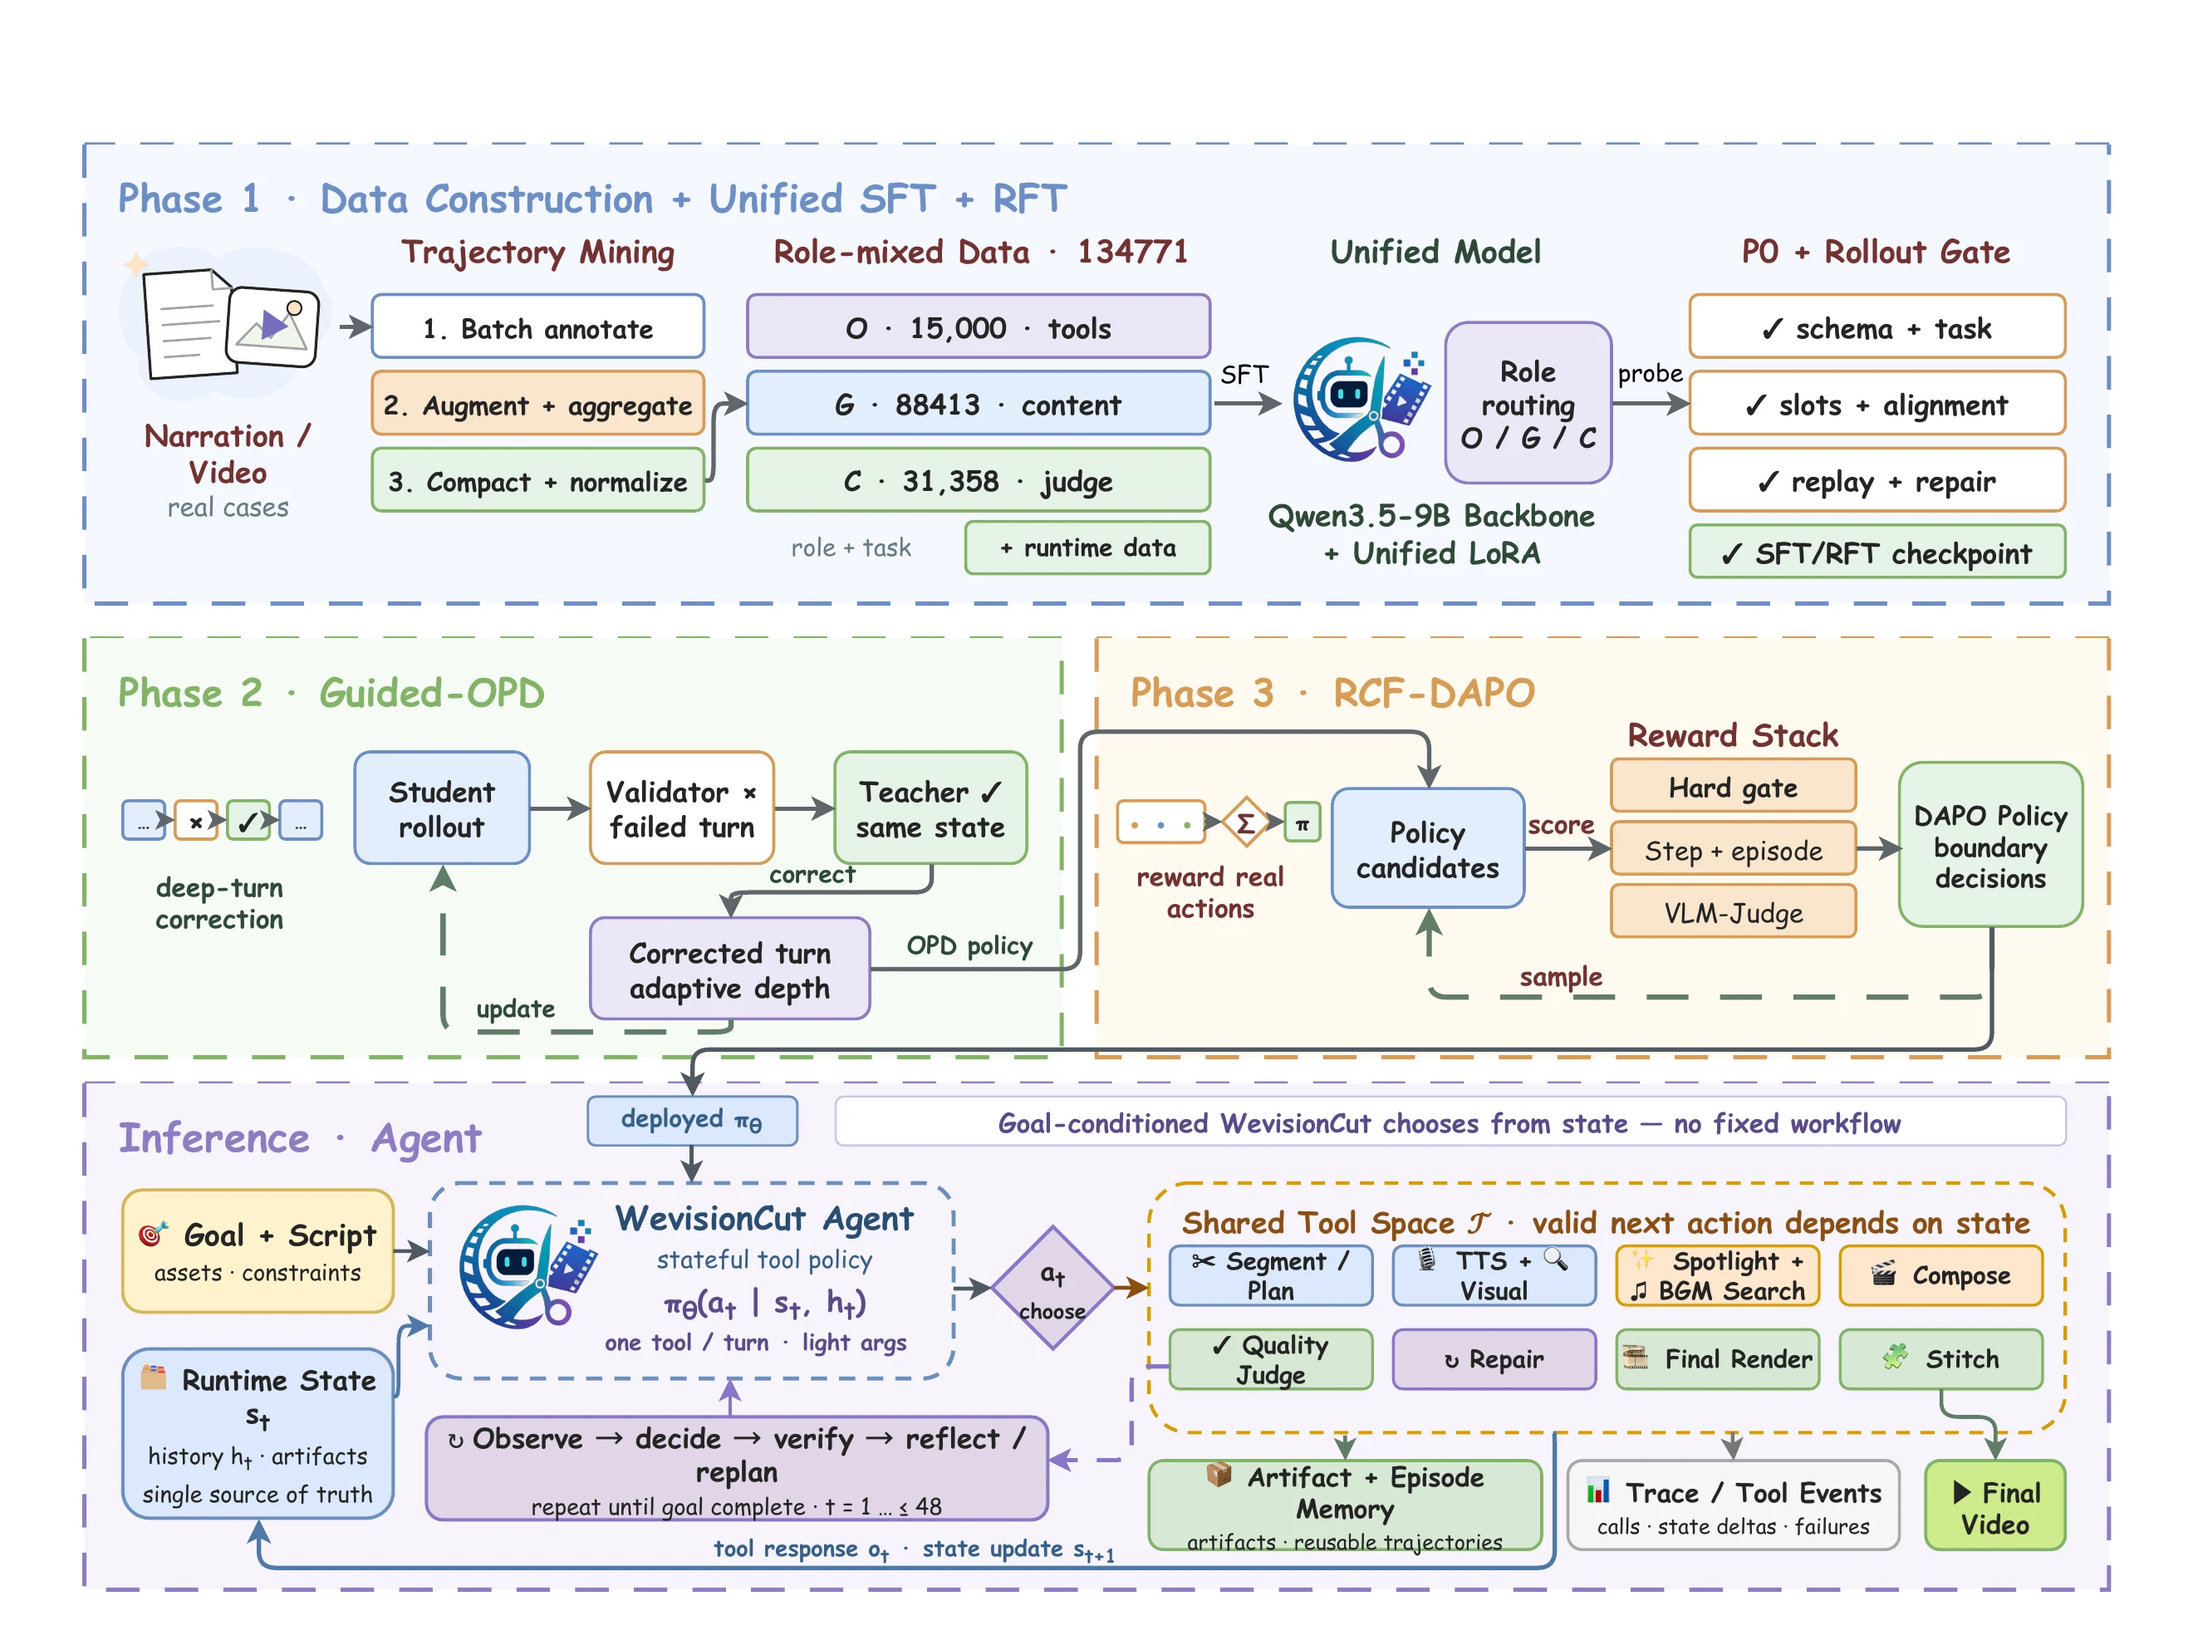
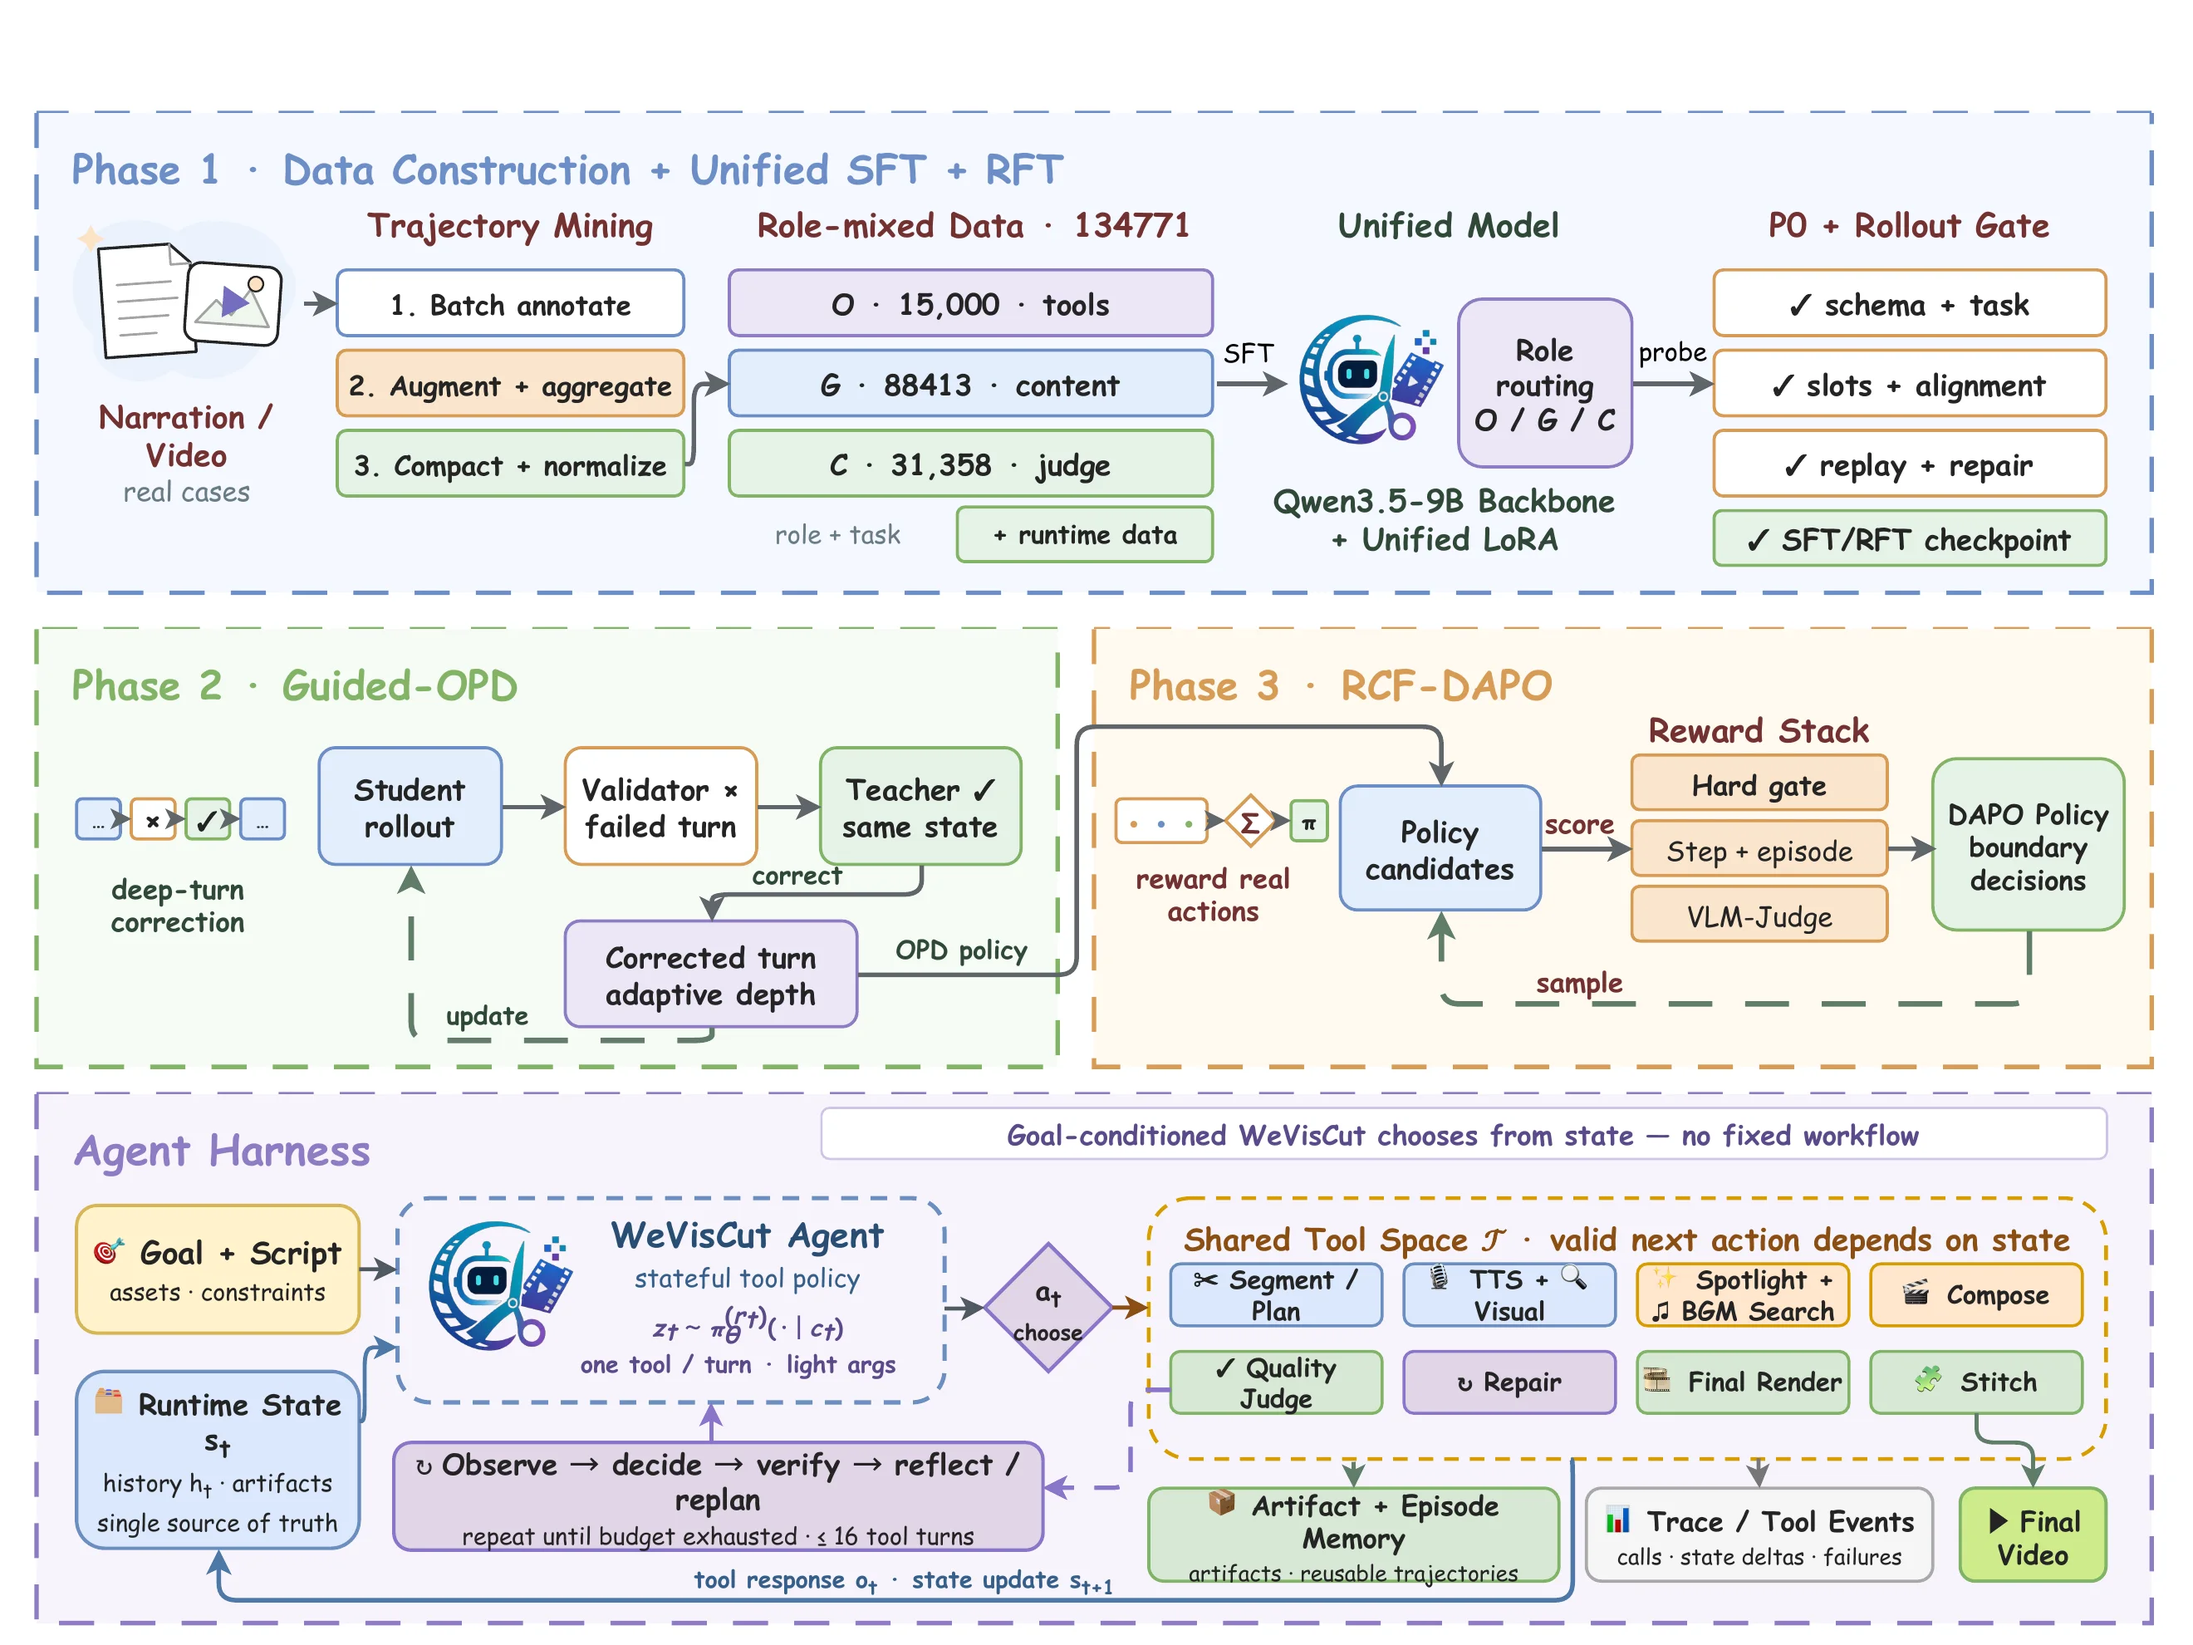
Fix project-page playback so videos no longer overlap or stack audio.
Replace the framework overview figure, and point the data pipeline link at the repository.

Changed region(s): [[0.0311, 0.0924, 0.9939, 1.0]]

diff --git a/js/main.js b/js/main.js
@@ -11,6 +11,102 @@ const sleep = ms => new Promise(r => setTimeout(r, ms));
 const pad = n => String(n).padStart(2, "0");
 const tc = f => `${pad(Math.floor(f / 86400))}:${pad(Math.floor(f / 1440) % 60)}:${pad(Math.floor(f / 24) % 60)}:${pad(f % 24)}`;
 
+/* One audible clip at a time. Replay flushes the media pipeline so a
+   previous play() cannot keep sounding under the new one. */
+const evalVideoEl = $("#evalVideo");
+let evalInView = false, evalResumeT = 0;
+
+const audibleVideos = () => $$("video").filter(v => v.id !== "evalVideo");
+function claimAudible(keep) {
+  const allow = new Set(keep || []);
+  audibleVideos().forEach(v => { if (!allow.has(v) && !v.paused) v.pause(); });
+  if (evalVideoEl && !evalVideoEl.paused) evalVideoEl.pause();
+}
+function stopVideo(video) {
+  if (!video) return;
+  const hot = !video.paused || video.currentTime > 0.05;
+  video.pause();
+  video.dataset.done = "";
+  if (hot && video.getAttribute("src")) flushPipeline(video);
+  video.muted = false;
+}
+function armNativeReplay(video, keep) {
+  video.addEventListener("ended", () => { video.dataset.done = "1"; maybeResumeEval(); });
+  video.addEventListener("play", () => {
+    claimAudible(keep);
+    if (video.dataset.guard === "1" || video.dataset.done !== "1") return;
+    if (!video.getAttribute("src")) return;
+    video.dataset.done = "";
+    video.dataset.guard = "1";
+    video.pause();
+    flushPipeline(video);
+    video.muted = false;
+    video.play().catch(() => {}).finally(() => { video.dataset.guard = ""; });
+  });
+}
+function maybeResumeEval() {
+  clearTimeout(evalResumeT);
+  evalResumeT = setTimeout(() => {
+    if (!evalVideoEl || !evalInView) return;
+    if (audibleVideos().some(v => !v.paused && !v.ended)) return;
+    evalVideoEl.muted = true;
+    evalVideoEl.play().catch(() => {});
+  }, 280);
+}
+function whenSeeked(video, timeout = 500) {
+  return new Promise(resolve => {
+    if (!video || (!video.seeking && video.currentTime <= 0.05)) { resolve(); return; }
+    let settled = false;
+    const done = () => {
+      if (settled) return;
+      settled = true;
+      video.removeEventListener("seeked", done);
+      resolve();
+    };
+    video.addEventListener("seeked", done);
+    setTimeout(done, timeout);
+  });
+}
+function flushPipeline(video) {
+  const src = video.getAttribute("src");
+  const poster = video.getAttribute("poster");
+  video.pause();
+  video.muted = true;
+  video.removeAttribute("src");
+  video.load();
+  if (poster) video.setAttribute("poster", poster);
+  if (src) video.setAttribute("src", src);
+}
+async function playClean(video, { fromStart = true, muted = false, alive = () => true } = {}) {
+  if (!video || !alive()) return;
+  const replay = fromStart && video.played && video.played.length > 0;
+  video.pause();
+  video.muted = true;
+  if (replay) flushPipeline(video);
+  else if (fromStart) {
+    try { video.currentTime = 0; } catch (_) {}
+    await whenSeeked(video);
+  }
+  if (!alive()) { video.pause(); return; }
+  video.muted = muted;
+  try { await video.play(); } catch (_) { if (!muted) video.muted = false; }
+  if (!alive()) video.pause();
+}
+if (evalVideoEl) {
+  evalVideoEl.muted = true;
+  evalVideoEl.removeAttribute("autoplay");
+  new IntersectionObserver(es => es.forEach(e => {
+    evalInView = e.isIntersecting;
+    if (evalInView) maybeResumeEval();
+    else evalVideoEl.pause();
+  }), { threshold: .3 }).observe(evalVideoEl);
+}
+const pvVideo = $("#pvVideo");
+if (pvVideo) {
+  armNativeReplay(pvVideo, [pvVideo]);
+  pvVideo.addEventListener("pause", maybeResumeEval);
+}
+
 /* ───────────── 1. clocks (24fps timecode) ───────────── */
 const navTc = $("#navTc"), deckClock = $("#deckClock");
 let frame = 0;
@@ -227,6 +323,7 @@ if (stream && nle) {
   async function run() {
     const token = ++runToken;
     const alive = () => token === runToken;
+    stopVideo(pvVideo);
     stream.innerHTML = ""; buildLanes();
     preview.classList.remove("live");
     runProgress.style.width = "0%";
@@ -444,16 +541,34 @@ if (stream && nle) {
 /* ───────────── 5. lightbox ───────────── */
 const lb = $("#lightbox"), lbVideo = $("#lightboxVideo");
 if (lb) {
-  $$(".card").forEach(c => c.addEventListener("click", () => {
+  let lbTicket = 0;
+  armNativeReplay(lbVideo, [lbVideo]);
+  lbVideo.addEventListener("pause", maybeResumeEval);
+  $$(".card").forEach(c => c.addEventListener("click", async () => {
+    const ticket = ++lbTicket;
+    claimAudible([lbVideo]);
+    lbVideo.dataset.done = "";
+    lbVideo.pause();
+    lbVideo.muted = true;
+    lbVideo.removeAttribute("src");
+    lbVideo.load();
     lbVideo.src = c.dataset.video;
     lb.classList.add("open");
     document.body.style.overflow = "hidden";
-    lbVideo.play().catch(() => {});
+    lbVideo.muted = false;
+    try { await lbVideo.play(); } catch (_) {}
+    if (ticket !== lbTicket) lbVideo.pause();
   }));
   const close = () => {
+    ++lbTicket;
     lb.classList.remove("open");
-    lbVideo.pause(); lbVideo.removeAttribute("src"); lbVideo.load();
+    lbVideo.pause();
+    lbVideo.muted = true;
+    lbVideo.removeAttribute("src");
+    lbVideo.load();
+    lbVideo.muted = false;
     document.body.style.overflow = "";
+    maybeResumeEval();
   };
   $("#lightboxClose").addEventListener("click", close);
   lb.addEventListener("click", e => { if (e.target === lb) close(); });
@@ -470,27 +585,52 @@ if (vsOurs && vsTheirs && vsTabs) {
     nature:   { ours: "assets/videos/vs/our_nature.mp4",   theirs: "assets/videos/vs/cr_nature.mp4",   title: "我们为什么探索宇宙" },
     society:  { ours: "assets/videos/vs/our_society.mp4",  theirs: "assets/videos/vs/cr_society.mp4",  title: "现代人为何越来越孤独" },
   };
-  let playing = false, curPair = "tech";
+  let playing = false, curPair = "tech", vsTicket = 0;
 
-  const setPlaying = on => {
+  const setPairUi = on => {
     playing = on;
     vsPlay.classList.toggle("playing", on);
     vsPlay.querySelector(".pp").textContent = on ? "❚❚" : "▶";
-    if (on) {
-      vsTheirs.currentTime = vsOurs.currentTime = 0;
-      vsOurs.play().catch(() => {}); vsTheirs.play().catch(() => {});
-    } else { vsOurs.pause(); vsTheirs.pause(); }
+  };
+  const setPlaying = async on => {
+    const ticket = ++vsTicket;
+    setPairUi(on);
+    if (!on) {
+      vsOurs.pause();
+      vsTheirs.pause();
+      maybeResumeEval();
+      return;
+    }
+    claimAudible([vsOurs, vsTheirs]);
+    vsTheirs.muted = true;
+    const alive = () => ticket === vsTicket && playing;
+    await Promise.all([
+      playClean(vsOurs, { fromStart: true, muted: false, alive }),
+      playClean(vsTheirs, { fromStart: true, muted: true, alive }),
+    ]);
+    if (!alive()) { vsOurs.pause(); vsTheirs.pause(); }
   };
   const loadPair = key => {
+    const ticket = ++vsTicket;
     curPair = key;
-    setPlaying(false);
+    setPairUi(false);
     const p = PAIRS[key];
     const frames = $$(".vs-frame");
     frames.forEach(f => f.classList.add("fading"));
+    [vsOurs, vsTheirs].forEach(v => {
+      v.pause();
+      v.muted = true;
+      v.removeAttribute("src");
+      v.load();
+    });
     setTimeout(() => {
-      vsOurs.src = p.ours;   vsOurs.poster = p.ours.replace(/\.mp4$/, ".jpg");
-      vsTheirs.src = p.theirs; vsTheirs.poster = p.theirs.replace(/\.mp4$/, ".jpg");
-      vsOurs.load(); vsTheirs.load();
+      if (ticket !== vsTicket) return;
+      vsOurs.poster = p.ours.replace(/\.mp4$/, ".jpg");
+      vsTheirs.poster = p.theirs.replace(/\.mp4$/, ".jpg");
+      vsOurs.src = p.ours;
+      vsTheirs.src = p.theirs;
+      vsOurs.muted = false;
+      vsTheirs.muted = true;
       vsCaption.textContent = "SCRIPT · " + p.title;
       frames.forEach(f => f.classList.remove("fading"));
     }, 200);
@@ -502,11 +642,13 @@ if (vsOurs && vsTheirs && vsTabs) {
   }));
   vsPlay.addEventListener("click", () => setPlaying(!playing));
   [vsOurs, vsTheirs].forEach(v => v.addEventListener("click", () => setPlaying(!playing)));
+  [vsOurs, vsTheirs].forEach(v => v.addEventListener("play", () => claimAudible([vsOurs, vsTheirs])));
   setInterval(() => {
-    if (playing && Math.abs(vsOurs.currentTime - vsTheirs.currentTime) > .3)
-      vsTheirs.currentTime = vsOurs.currentTime;
-  }, 500);
-  vsOurs.addEventListener("ended", () => setPlaying(false));
+    if (!playing || vsOurs.paused || vsTheirs.seeking || !vsTheirs.getAttribute("src")) return;
+    if (Math.abs(vsOurs.currentTime - vsTheirs.currentTime) > .45)
+      try { vsTheirs.currentTime = vsOurs.currentTime; } catch (_) {}
+  }, 700);
+  vsOurs.addEventListener("ended", () => { if (playing) setPlaying(false); });
 }
 
 /* ═════════════ 7. EVAL SANDBOX — sample → cite → anchored score ═════════════ */

diff --git a/index.html b/index.html
@@ -379,7 +379,7 @@
       <div class="eval-left">
         <div class="col-label mono">INPUT · 被评影片</div>
         <div class="eval-video">
-          <video id="evalVideo" src="assets/videos/eval-demo.mp4" muted loop playsinline autoplay></video>
+          <video id="evalVideo" src="assets/videos/eval-demo.mp4" muted loop playsinline></video>
           <span class="mono eval-vtag">final_cut.mp4 · 16:58 · 21 shots</span>
         </div>
         <div class="eval-strip" id="evalStrip"></div>
@@ -452,7 +452,7 @@
       </div>
       <div class="vs-side">
         <div class="vs-tag mono"><span class="vs-dot gray"></span>CRAYOTTER</div>
-        <div class="vs-frame dim-frame"><video id="vsTheirs" playsinline preload="metadata"></video></div>
+        <div class="vs-frame dim-frame"><video id="vsTheirs" playsinline preload="metadata" muted></video></div>
       </div>
     </div>
     <div class="vs-caption mono" id="vsCaption">SCRIPT · 人工智能如何改变生活</div>

diff --git a/css/style.css b/css/style.css
@@ -252,8 +252,8 @@ a{color:inherit;text-decoration:none}
 /* preview panel */
 .preview{position:relative;margin:16px 18px 4px;border-radius:12px;overflow:hidden;
   border:1px solid var(--line-2);background:#000;aspect-ratio:16/9;flex:none}
-.preview video{width:100%;height:100%;object-fit:cover;display:block;opacity:0;transition:opacity .6s}
-.preview.live video{opacity:1}
+.preview video{width:100%;height:100%;object-fit:cover;display:block;opacity:0;transition:opacity .6s;pointer-events:none}
+.preview.live video{opacity:1;pointer-events:auto}
 .preview-slate{position:absolute;inset:0;display:flex;align-items:center;justify-content:center;gap:10px;
   font-family:var(--fm);font-size:11px;letter-spacing:.22em;color:var(--faint);
   background:repeating-linear-gradient(45deg,#101215 0 14px,#0c0e10 14px 28px);
